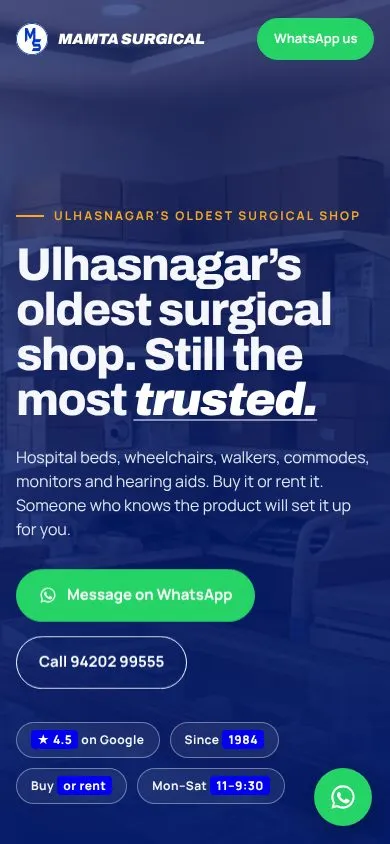
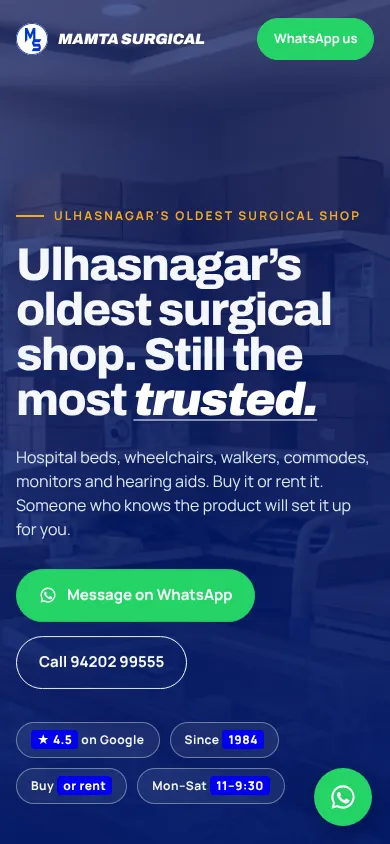
Mamta Surgical site: overlap and text-fit audit fixes
Product card titles scale on narrow phones, step numbers no longer
overlap their headings, Visit card heading and address grid fit on
phones, shop-photo strip drops to two columns below 1100px, stat labels
wrap cleanly. Pitch demo mock-ups regenerated.

Claude-Session: https://claude.ai/code/session_0199oDXyvKjxNLvvZkm8M2GM

diff --git a/c/mamta-surgicals/site/index.html b/c/mamta-surgicals/site/index.html
@@ -121,7 +121,7 @@ section{padding:clamp(80px,10vw,140px) 0}
 .steps .grid{display:grid;grid-template-columns:repeat(3,1fr);gap:28px;position:relative}
 .steps .line{position:absolute;left:0;right:0;top:34px;height:1px;background:var(--line)}
 .steps .line i{display:block;height:100%;width:0;background:var(--teal)}
-.step{position:relative;padding-top:60px}
+.step{position:relative;padding-top:88px}
 .step .n{position:absolute;top:0;left:0;width:68px;height:68px;border-radius:50%;background:var(--bone);border:1px solid var(--line);display:grid;place-items:center;font-family:var(--serif);font-size:28px;color:var(--teal)}
 .step h3{font-size:28px;margin-bottom:8px}
 .step p{color:var(--mute);font-size:15px}
@@ -134,7 +134,7 @@ section{padding:clamp(80px,10vw,140px) 0}
 .pcard img{width:100%;height:100%;object-fit:cover;transition:transform .9s cubic-bezier(.2,.7,.2,1)}
 .pcard:hover img{transform:scale(1.07)}
 .pcard .lab{position:absolute;left:0;right:0;bottom:0;padding:18px;background:linear-gradient(0deg,rgba(2,26,107,.88),transparent);color:var(--bone)}
-.pcard .lab h3{font-size:26px}
+.pcard .lab h3{font-size:clamp(18px,2.1vw,26px);line-height:1.02}
 .pcard .lab small{font-size:12px;opacity:.85}
 .pcard.big{grid-column:span 2;aspect-ratio:auto;min-height:0}
 .pcard.big:not(.text) img{position:absolute;inset:0}
@@ -144,7 +144,7 @@ section{padding:clamp(80px,10vw,140px) 0}
 .pcard.text ul{list-style:none;columns:2;gap:16px;font-size:13.5px;font-weight:600;margin-top:16px}
 .pcard.text li{padding:4px 0;border-bottom:1px solid rgba(255,255,255,.12)}
 @media(max-width:960px){.pgrid{grid-template-columns:repeat(2,1fr)}.pcard.big{grid-column:span 2;aspect-ratio:4/3}.pcard.text{aspect-ratio:auto}}
-@media(max-width:520px){.pcard.text ul{columns:1}}
+@media(max-width:520px){.pcard.text ul{columns:1}.pcard .lab{padding:14px}.pcard .lab h3{font-size:19px}.pcard .lab small{font-size:11px}.pcard.text h3{font-size:28px}}
 
 /* story */
 .story{background:var(--teal-deep);color:var(--bone);position:relative;overflow:hidden}
@@ -157,7 +157,7 @@ section{padding:clamp(80px,10vw,140px) 0}
 .story .ph img{width:100%;height:120%;object-fit:cover;margin-top:-10%}
 .stats{display:grid;grid-template-columns:repeat(3,1fr);gap:20px;margin-top:40px;border-top:1px solid rgba(255,255,255,.14);padding-top:28px}
 .stat b{display:block;font-family:var(--serif);font-size:clamp(44px,5vw,68px);color:#fff;line-height:1}
-.stat span{font-size:13px;opacity:.75;letter-spacing:.04em}
+.stat span{font-size:13px;opacity:.75;letter-spacing:.04em;display:block;line-height:1.3;margin-top:6px}
 .yr{position:absolute;right:-2vw;bottom:-4vw;font-family:var(--serif);font-size:30vw;line-height:1;color:rgba(246,242,234,.04);pointer-events:none}
 @media(max-width:860px){.story .grid{grid-template-columns:1fr}.stats{grid-template-columns:repeat(3,1fr);gap:12px}.stat b{font-size:clamp(34px,9vw,44px)}.stat span{font-size:12px}}
 
@@ -183,19 +183,20 @@ section{padding:clamp(80px,10vw,140px) 0}
 .strip figure:nth-child(4) img{object-fit:contain;padding:10px}
 .strip figure:hover img{transform:scale(1.05)}
 .strip figcaption{position:absolute;left:12px;bottom:12px;font-size:11px;font-weight:800;letter-spacing:.08em;text-transform:uppercase;background:rgba(255,255,255,.92);color:var(--teal);padding:6px 10px;border-radius:999px}
-@media(max-width:860px){.strip{grid-template-columns:1fr 1fr;align-items:start}.strip figure,.strip figure:nth-child(2),.strip figure:nth-child(4){aspect-ratio:3/4}}
+@media(max-width:1100px){.strip{grid-template-columns:1fr 1fr;align-items:start}.strip figure,.strip figure:nth-child(2),.strip figure:nth-child(4){aspect-ratio:3/4}}
 
 /* visit */
 .visit{background:var(--paper)}
 .visit .grid{display:grid;grid-template-columns:1fr 1fr;gap:40px;align-items:stretch}
 .visit .card{background:var(--paper);border:1px solid var(--line);border-radius:28px;padding:36px;display:flex;flex-direction:column;gap:22px}
-.visit h2{font-size:clamp(38px,5vw,64px)}
+.visit h2{font-size:clamp(30px,4.4vw,60px)}
 .visit h2 em{font-style:italic;color:var(--teal)}
 .kv{display:grid;grid-template-columns:110px 1fr;gap:6px 16px;font-size:15px}
 .kv dt{color:var(--mute);font-weight:700;font-size:12px;letter-spacing:.1em;text-transform:uppercase;padding-top:3px}
 .kv dd{font-weight:600}
 .visit iframe{width:100%;height:100%;min-height:420px;border:0;border-radius:28px;filter:saturate(.85)}
 @media(max-width:860px){.visit .grid{grid-template-columns:1fr}}
+@media(max-width:640px){.visit .card{padding:26px 22px}.visit h2{font-size:clamp(28px,8vw,36px)}.kv{grid-template-columns:1fr;gap:0}.kv dt{margin-top:12px}.kv dd{margin-top:2px}}
 
 /* footer */
 footer{background:var(--teal-deep);color:var(--bone);padding:60px 0 40px}
